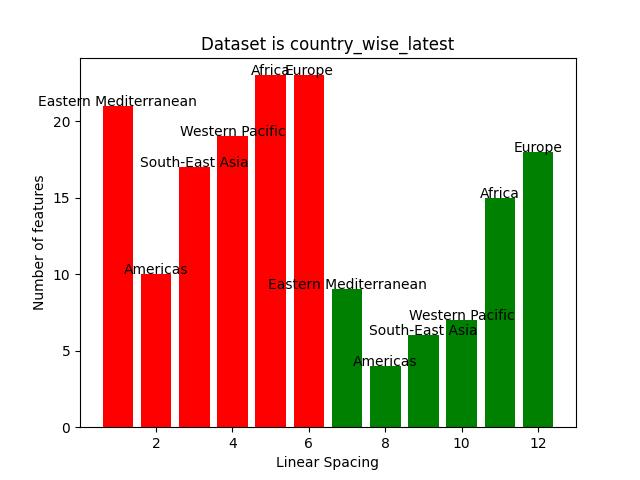
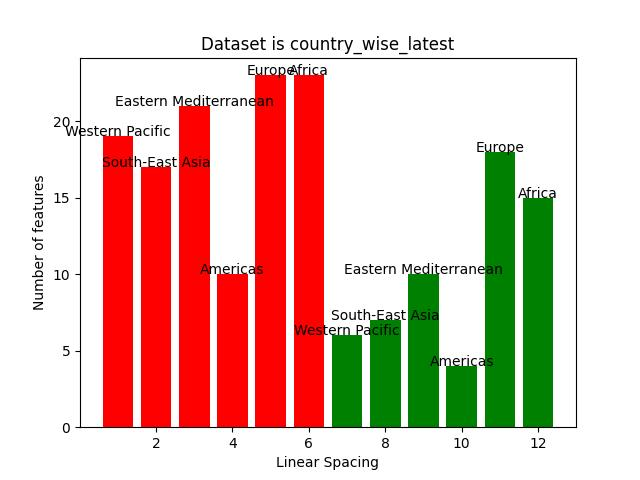
Almost done

Changed region(s): [[0.0625, 0.1875, 0.8125, 0.7812], [0.75, 0.2812, 0.875, 0.4375], [0.375, 0.125, 0.5312, 0.1562]]

diff --git a/ui/server.js b/ui/server.js
@@ -26,6 +26,20 @@ app.get('/datasets', (req, res) => {
 });
 
 app.get('/results/:file', (req, res) => {
+    const directory = __dirname+"/public"
+    fs.readdir(directory, (err, files) => {
+        if (err) throw err;
+      
+        for (const file of files) {
+            if(file.endsWith(".png") || file.endsWith(".jpg") || file.endsWith(".jpeg")){
+                console.log("TRUE!");
+                fs.unlink(path.join(directory, file), (err) => {
+                    if (err) throw err;
+                });
+            }
+        }
+      });
+
     let fileName = req.params['file']
     let options = {args: [fileName]}
     console.log('Running');

diff --git a/ui/public/script.js b/ui/public/script.js
@@ -59,6 +59,8 @@ window.onload = () => {
                                 })
                             fetch('/compare_results/'+file)
                             .then(response => {
+                                console.log(response)
+                                console.log('Plotting graphs');
                                 var graphs = {
                                     "Features: Unreduced v/s Reduced": "features.jpg",
                                     "Features: Standard Apriori": "standard.png",

diff --git a/ui/public/index.html b/ui/public/index.html
@@ -3,6 +3,9 @@
   <head>
     <title>My Website</title>
     <link rel="stylesheet" href="./styles.css">
+    <meta http-equiv='cache-control' content='no-cache'>
+    <meta http-equiv='expires' content='0'>
+    <meta http-equiv='pragma' content='no-cache'>
   </head>
   <body>
     <div class="navbar">

diff --git a/code/compare_results.py b/code/compare_results.py
@@ -26,7 +26,8 @@ functions = ['Standard Apriori', 'Modified Apriori']
 runtimes = [runtime1, runtime2]
 
 plt.figure()
-plt.bar(functions, runtimes)
+plt.bar(functions[0], runtimes[0], color='blue')
+plt.bar(functions[1], runtimes[1], color='orange')
 plt.title('Comparison of Function Runtimes')
 plt.xlabel('Functions')
 plt.ylabel('Runtime (s)')
@@ -72,7 +73,7 @@ for i in range(len(x_values2)):
 plt.savefig('public/features.jpg')
 
 plt.figure()
-plt.bar(x_values_standard,count_length_standard_unreduced,color='orange')
+plt.bar(x_values_standard,count_length_standard_unreduced,color='#021096')
 plt.xlabel('Linear Spacing')
 plt.ylabel('Number of features')
 plt.title('Dataset is ' + filename.split('.')[0])

diff --git a/code/standard_apriori.py b/code/standard_apriori.py
@@ -36,7 +36,7 @@ def print_table(T, supp_count):
 def standard_apriori_features(filename):
     path_to_data = '../data/' + filename
     min_support = 0.02
-    min_confidence = 0.03
+    min_confidence = 0.02
 
     data = load_data(path_to_data)
     class_labels = set(data[data.columns[-1]])
